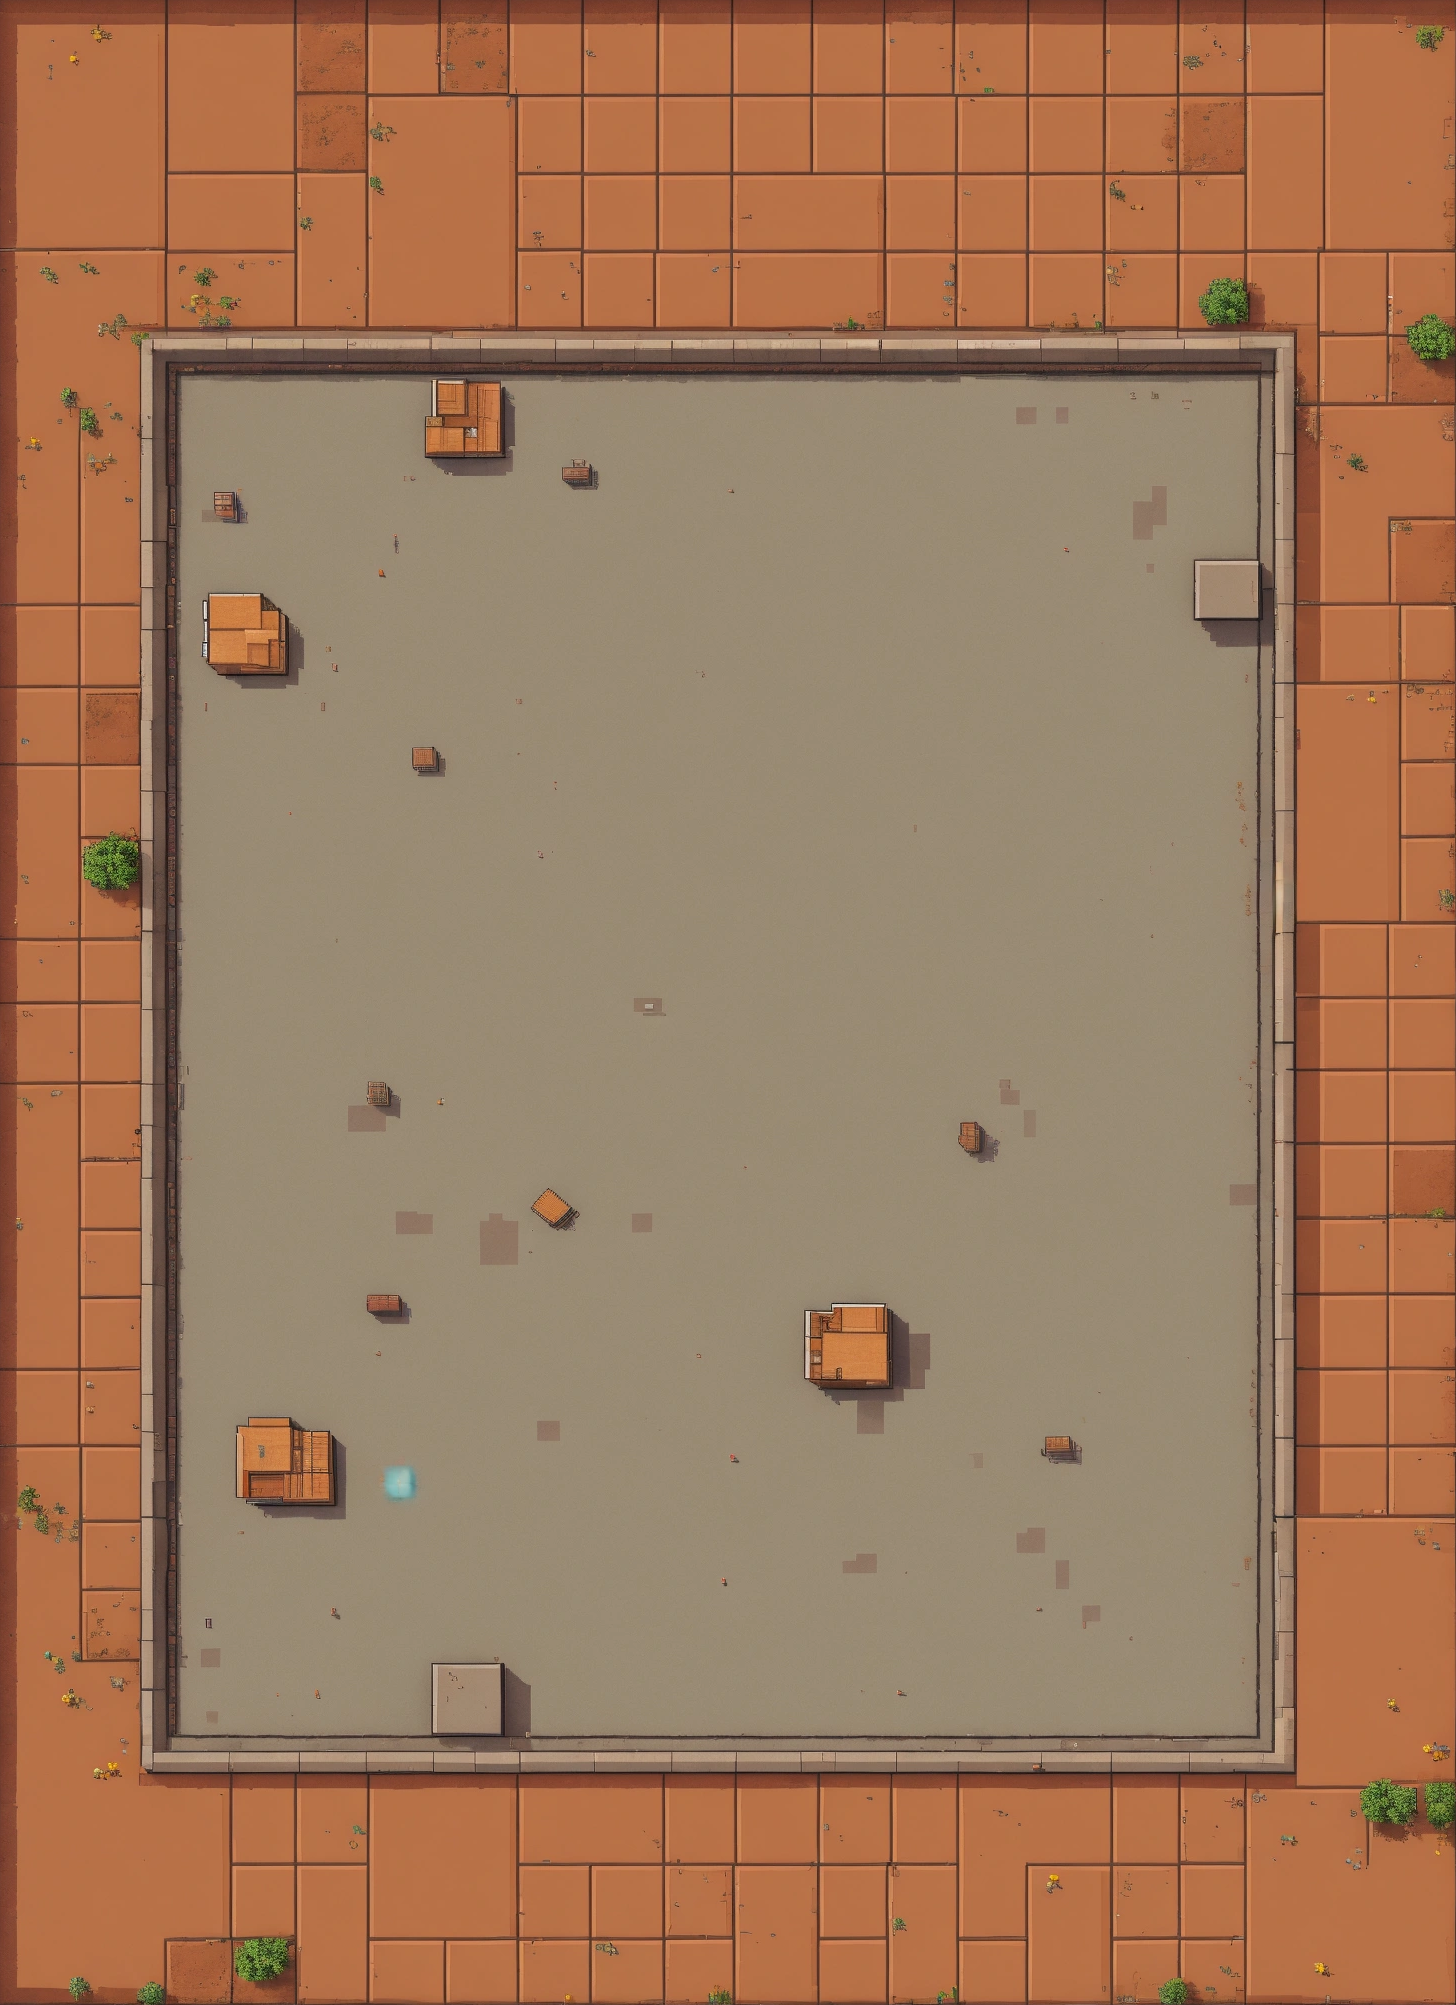
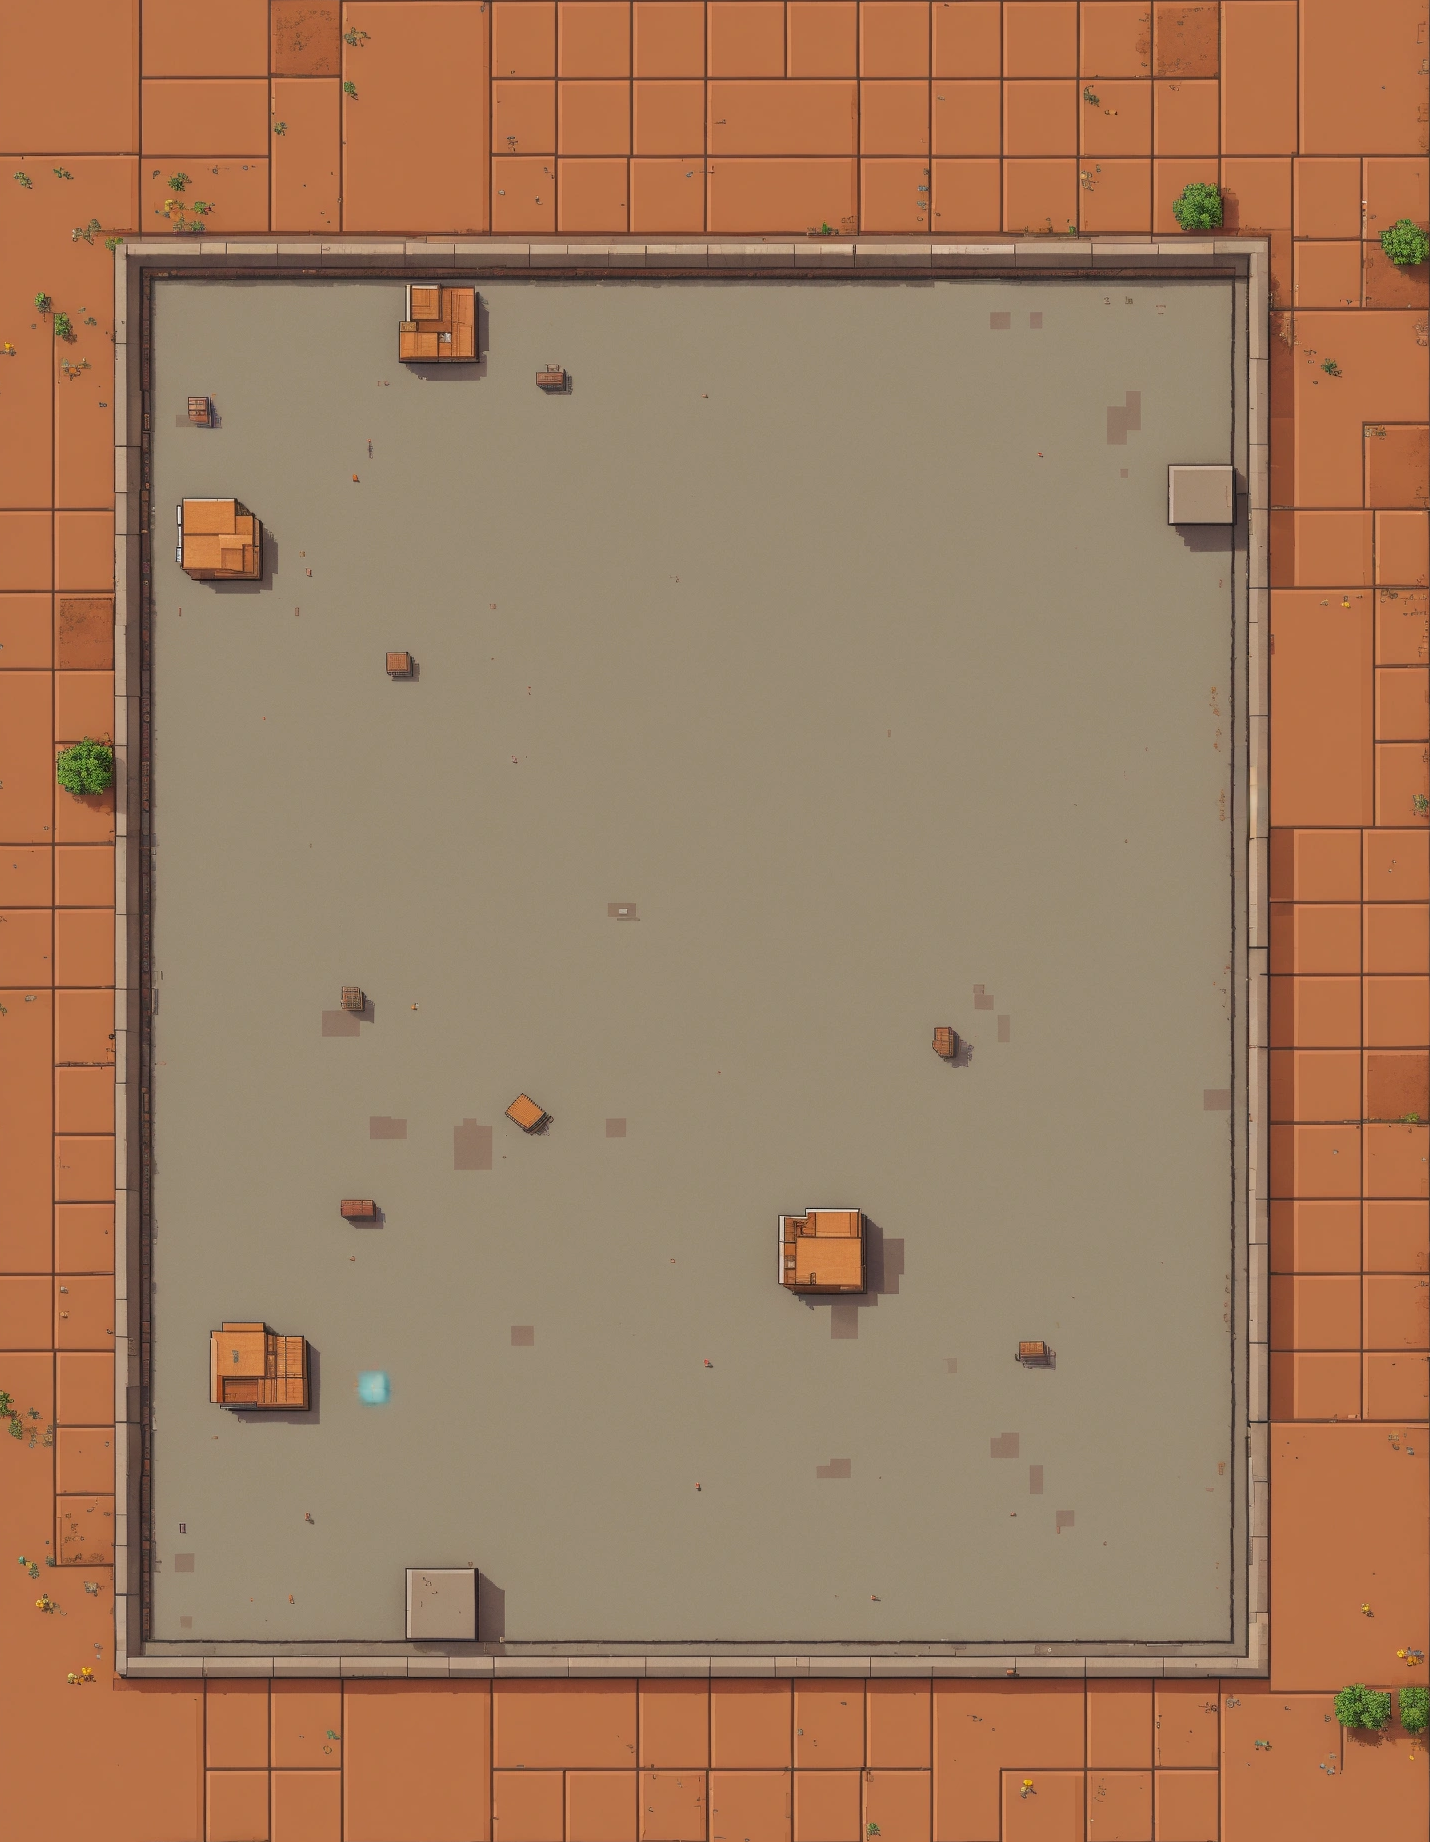
배경화면이 플레이어와 같이 이동하게 수정

diff --git a/RaisingWarriors/app/src/main/java/kr/ac/tukorea/ge/spgp/gurpaper/raisingwarriors/game/Warrior.java b/RaisingWarriors/app/src/main/java/kr/ac/tukorea/ge/spgp/gurpaper/raisingwarriors/game/Warrior.java
@@ -12,7 +12,6 @@ import kr.ac.tukorea.ge.spgp.gurpaper.raisingwarriors.R;
 public class Warrior extends Sprite {
     private static final float WARRIOR_WIDTH = 1.f;
     private static final float WARRIOR_HEIGHT = WARRIOR_WIDTH * 259/181;
-    private static final float RADIUS = 1.0f;
     private static final float SPEED = 3.0f;
     private final JoyStick joyStick;
     private float angle;
@@ -22,7 +21,7 @@ public class Warrior extends Sprite {
         x = Metrics.width / 2;
         y = 2 * Metrics.height / 3;
         angle = -90;
-        setPosition(x-RADIUS, y,WARRIOR_WIDTH, WARRIOR_HEIGHT);
+        setPosition(x , Metrics.height/2  , WARRIOR_WIDTH,WARRIOR_HEIGHT);
         this.joyStick = joyStick;
     }
 
@@ -32,16 +31,17 @@ public class Warrior extends Sprite {
             float distance = SPEED * joyStick.power * elapsedSeconds;
             x += (float) (distance * Math.cos(joyStick.angle_radian));
             y += (float) (distance * Math.sin(joyStick.angle_radian));
-            dstRect.set(x - RADIUS, y - RADIUS, x + RADIUS, y + RADIUS);
+            dstRect.set(x - WARRIOR_WIDTH/2, Metrics.height/2 - WARRIOR_HEIGHT/2, x + WARRIOR_WIDTH/2, Metrics.height/2+WARRIOR_HEIGHT/2);
             angle = (float) Math.toDegrees(joyStick.angle_radian);
         }
         super.update(elapsedSeconds);
     }
     @Override
     public void draw(Canvas canvas) {
-
         super.draw(canvas);
     }
+    public float getX(){return x;}
+    public float getY(){return y;}
 }
 
 

diff --git a/RaisingWarriors/app/src/main/java/kr/ac/tukorea/ge/spgp/gurpaper/raisingwarriors/game/MainScene.java b/RaisingWarriors/app/src/main/java/kr/ac/tukorea/ge/spgp/gurpaper/raisingwarriors/game/MainScene.java
@@ -4,6 +4,7 @@ import android.view.MotionEvent;
 
 import kr.ac.tukorea.ge.spgp.gurpaper.framework.objects.JoyStick;
 import kr.ac.tukorea.ge.spgp.gurpaper.framework.objects.MainPage;
+import kr.ac.tukorea.ge.spgp.gurpaper.framework.objects.MovingBackground;
 import kr.ac.tukorea.ge.spgp.gurpaper.raisingwarriors.R;
 import kr.ac.tukorea.ge.spgp.gurpaper.framework.objects.Score;
 import kr.ac.tukorea.ge.spgp.gurpaper.framework.objects.VertScrollBackground;
@@ -30,13 +31,14 @@ public class MainScene extends Scene {
         add(Layer.controller, new EnemyGenerator());
         add(Layer.controller, new CollisionChecker(this));
 
-       add(Layer.bg, new MainPage(R.mipmap.map_1));
 
         this.joyStick = new JoyStick(R.mipmap.joystick_bg, R.mipmap.joystick_thumb);
         joyStick.setRects(1, 15, 1, 0.3f, 0.8f);
         this.warrior = new Warrior(joyStick);
         add(Layer.player, warrior);
         add(Layer.controller, joyStick);
+
+         add(Layer.bg, new MovingBackground(R.mipmap.map_1, this.warrior));
 
         this.score = new Score(R.mipmap.number_24x32, Metrics.width - 0.5f, 0.5f, 0.6f);
         score.setScore(0);

diff --git a/RaisingWarriors/app/src/main/java/kr/ac/tukorea/ge/spgp/gurpaper/framework/objects/MovingBackground.java b/RaisingWarriors/app/src/main/java/kr/ac/tukorea/ge/spgp/gurpaper/framework/objects/MovingBackground.java
@@ -10,12 +10,20 @@ import kr.ac.tukorea.ge.spgp.gurpaper.raisingwarriors.game.Warrior;
 
 public class MovingBackground extends Sprite {
     private final float height;
-    public MovingBackground(int bitmapResId) {
-        super(bitmapResId);
-        this.height = bitmap.getHeight() * Metrics.width / bitmap.getWidth();
-        setPosition(Metrics.width / 2, Metrics.height / 2, Metrics.width, height);
-    }
+    private final Warrior warrior;
+    private float pre_warrior_y;
 
+    public MovingBackground(int bitmapResId, Warrior warrior) {
+        super(bitmapResId);
+        this.warrior = warrior;
+        pre_warrior_y = warrior.y;
+        this.height = bitmap.getHeight() * Metrics.width / bitmap.getWidth();
+        setPosition(0, 0, Metrics.width, Metrics.height);
+    }
+    public void update(float elapsedSeconds) {
+        this.y += pre_warrior_y-warrior.y;
+        pre_warrior_y = warrior.y;
+    }
     @Override
     public void draw(Canvas canvas) {
         //super.draw(canvas);
@@ -27,4 +35,5 @@ public class MovingBackground extends Sprite {
             curr += height;
         }
     }
+
 }

diff --git a/RaisingWarriors/app/src/main/java/kr/ac/tukorea/ge/spgp/gurpaper/framework/objects/JoyStick.java b/RaisingWarriors/app/src/main/java/kr/ac/tukorea/ge/spgp/gurpaper/framework/objects/JoyStick.java
@@ -65,6 +65,10 @@ public class JoyStick implements IGameObject {
                 pts = Metrics.fromScreen(event.getX(), event.getY());
                 startX = pts[0];
                 startY = pts[1];
+                centerX = pts[0];
+                centerY = pts[1];
+                bgRect.set(centerX - this.bgRadius, centerY - this.bgRadius, centerX + this.bgRadius, centerY + this.bgRadius);
+                thumbRect.set(centerX - thumbRadius, centerY - thumbRadius, centerX + thumbRadius, centerY + thumbRadius);
                 return true;
             case MotionEvent.ACTION_MOVE:
                 pts = Metrics.fromScreen(event.getX(), event.getY());
